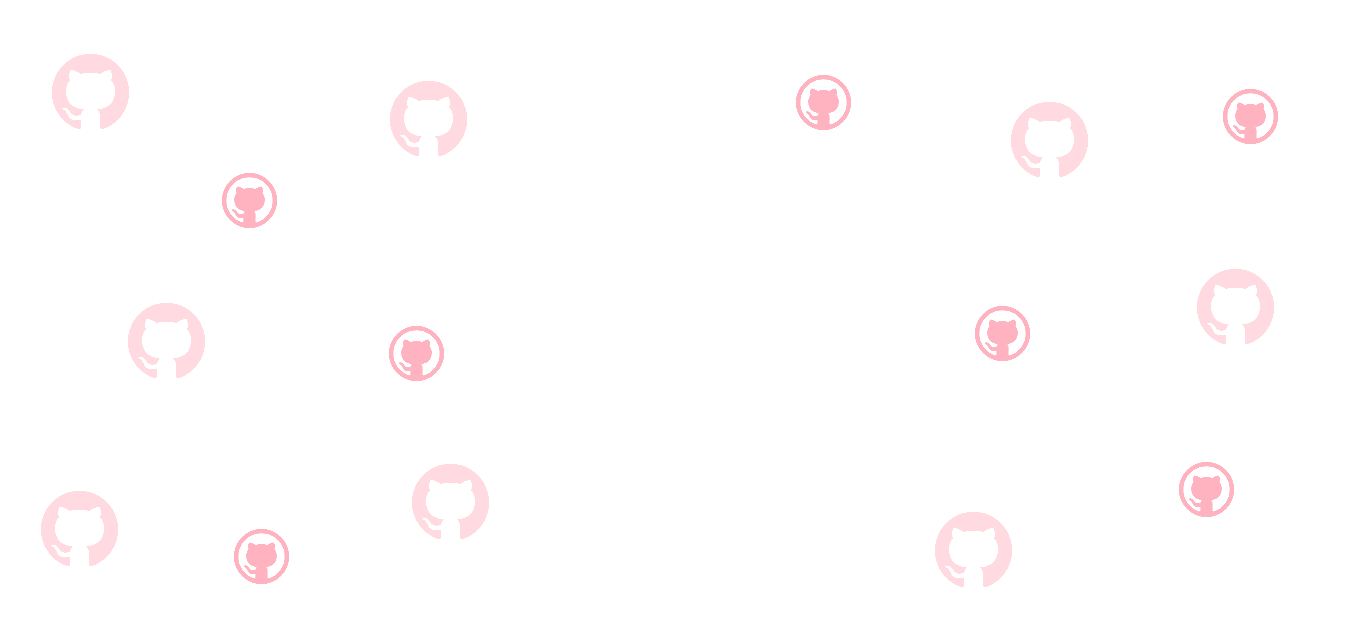
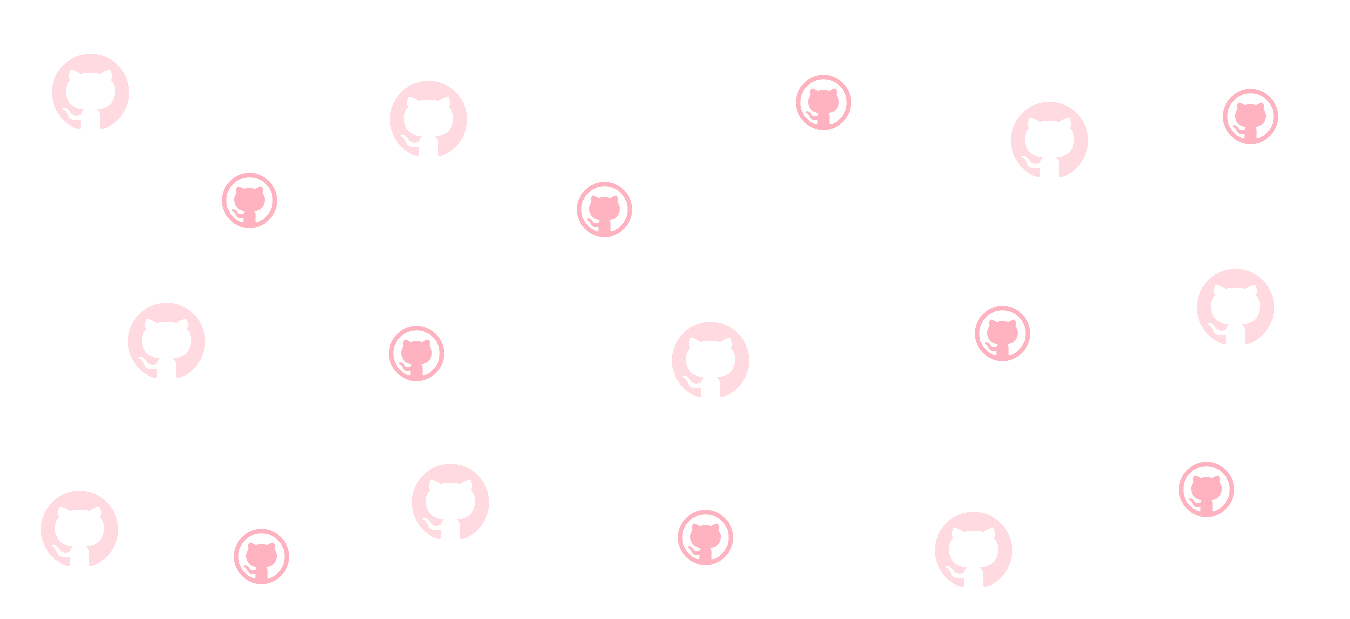
Final style changes

Changed region(s): [[0.4978, 0.5218, 0.56, 0.6446], [0.4044, 0.2763, 0.4667, 0.399], [0.4978, 0.8288, 0.56, 0.9208]]

diff --git a/restapi/src/components/styles/Users.css b/restapi/src/components/styles/Users.css
@@ -6,9 +6,6 @@
   row-gap: 1em;
   text-align: center;
   color: black;
-  background-image: url("../assets/bvkg.png");
-  background-repeat: repeat;
-  background-size: contain;
 }
 
 .gitlogo {

diff --git a/restapi/src/App.css b/restapi/src/App.css
@@ -7,4 +7,7 @@
 
 body {
   background-color: pink;
+  background-image: url("components/assets/bvkg.png");
+  background-size: contain;
+  background-position: center center;
 }
